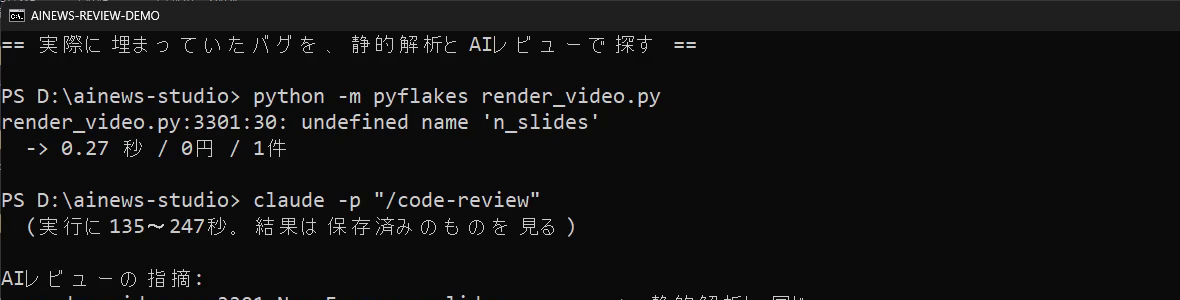
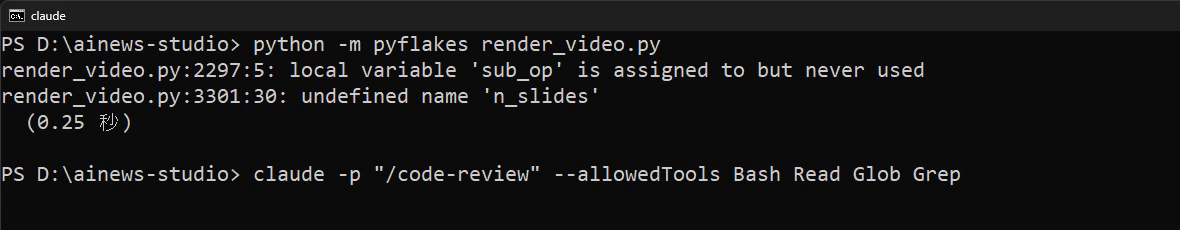
コードレビューの記事に動画CTAを追加

diff --git a/index.html b/index.html
@@ -31,6 +31,7 @@
 
   <section class="hero">
     <a class="hero-card" href="contents/2026-08-31_code-review/">
+      <img class="hero-thumb" src="contents/2026-08-31_code-review/images/thumb.png" alt="" width="1280" height="720" fetchpriority="high">
       <div class="hero-body">
         <div class="hero-meta">
           <span class="hero-badge">最新号</span>
@@ -123,8 +124,8 @@
     <div class="post-list" id="postList">
       <a class="post-card" href="contents/2026-08-31_code-review/"
          data-tags="Claude Code|実測|コードレビュー|静的解析|ハウツー" data-category="AIで作る技術"
-         data-date="2026-08-31" data-search="claude codeにコードレビューさせる — 実際に埋まっていたバグ2件で測った このリポジトリに本当に埋まっていたバグ2件を差分に戻し、pyflakes と /code-review にかけて比べました。静的解析は0.26秒・0円で1件。aiレビューは111〜247秒・$0.80〜1.70で同じ1件＋静的解析が原理的に出せない1件を、実機で再現して示しました。良性の変更に対する誤検知は0件。 aiで作る技術 claude code 実測 コードレビュー 静的解析 ハウツー claude codeにコードレビューさせる — 実際に埋まっていたバグ2件で測った aiニュース デイリーダイジェスト aiで作る技術 ｜ 2026年8月31日(日) claude codeにコードレビューさせる — 実際に埋まっていたバグ2件で測った 「aiにコードレビューさせると役に立つのか」を、 作り物のバグではなく、このリポジトリに本当に埋まっていたバグ2件 で測りました。片方は静的解析が0.27秒・0円で見つけます。 もう片方は静的解析には原理的に出せません 。そこがこの記事の主題です。ログはすべて claude code 2.1.251 での実測で、加工していません。 ⏱ 同じ計測は約10分 全部コピペok windows実測 ⭐ 3行で言うと 静的解析は0.27秒・0円で1件。 pyflakes は未定義変数（ nameerror ）を即座に指摘しました。速さと値段では勝負になりません。 aiレビューは同じ1件に加えて、静的解析が出せない1件を見つけました。 subprocess.run(..., text=true) がロケール依存で落ちる問題です。しかも 実際にこのマシンで再現して見せました — プロジェクト自身のbgmファイルに日本語のid3タグがあることまで突き止めています。 誤検知は0件でした。 良性の変更だけを見せたときは no findings. 。関数の失敗経路を3種類の入力で実行して確かめたうえで、化粧的な指摘は「findings に入れない」と自分で判断していました。かかったのは111.6秒・$0.885です。 先に4語だけ意味 静的解析 — プログラムを動かさずに、字面だけで誤りを探す道具。 pyflakes はその一つ /code-review — claude code に入っている、いまの差分をレビューさせる指示 ロケール — その機械の「既定の文字コード」。日本語windowsでは cp932 id3タグ — mp3の中に埋まっている曲名などの情報。日本語が入ることがある 目次 何を測ったか — 作り物ではなく、実際に埋まっていたバグ バグ1: 使っていない変数を参照していた バグ2: ロケール依存で落ちる（linuxでは起きない） 静的解析 — 0.27秒・0円・1件 aiレビュー — 同じ1件と、出せないはずの1件 決定的だったのは「再現までやる」こと 影響は6関数10箇所に広がっていた 誤検知は0件だった 実験設計の穴を、レビューに見抜かれた 時間と料金 — 4回の実測 使い分け — 結論 やっていないこと 参考文献 1 何を測ったか — 作り物ではなく、実際に埋まっていたバグ aiレビューの実力を測る記事はたくさんありますが、多くは そのために作ったバグ を使います。それだと「わざと分かりやすくした問題を見つけた」以上のことが分かりません。 この記事では、 このリポジトリ（動画を作る自作ツール・約3,700行）に本当に埋まっていたバグ2件 を差分に戻して測りました。どちらも2026年8月30日に実際に踏んで、直したものです。 実行環境（すべてこの機械での実測） claude 2.1.251 (claude code) python 3.10.6 git 2.52.0.windows.1 os microsoft windows 11 pro 10.0.26200 powershell 7.6.5 cpu amd ryzen 7 5800x (8コア16スレッド) locale.getpreferredencoding() = cp932 ← ここが後で効きます 測り方は単純です。 バグを戻した差分 を作り、①静的解析（ pyflakes ）②aiレビュー（ claude -p &quot;/code-review&quot; ）の両方にかけて、何を見つけるか・いくらかかるかを記録しました。 2 バグ1: 使っていない変数を参照していた 1件目は素直な nameerror です。関数の中で n_slides という変数を使っているのに、その変数を作る行が無い、という状態でした。 バグのある状態（render_video.py の render_clip） def render_clip(ctx, i, slide): ffmpeg, work, only = ctx[&quot;ffmpeg&quot;], ctx[&quot;work&quot;], ctx[&quot;only&quot;] dirname, cat, total = ctx[&quot;dirname&quot;], ctx[&quot;cat&quot;], ctx[&quot;total&quot;] # ここに n_slides = ... の行が無い cuts = slide.get(&quot;cuts&quot;) or [] ... print(f&quot; slide {i + 1}/ {n_slides} [実録] カット{n_cut}本 ...&quot;) この関数は「実録の画面録画を動画に差し込む」処理で、 実装されてから一度も呼ばれていませんでした 。だから誰も気づかないまま残っていて、初めて使おうとした日に落ちました。しかも落ちるのは 動画の書き出しが全部終わったあと です。 3 バグ2: ロケール依存で落ちる（linuxでは起きない） 2件目はもっと厄介です。pythonで外部コマンド（ここでは ffmpeg ）を呼んで出力を読む、というだけのコードです。 バグのある状態 run = subprocess.run([ffmpeg, &quot;-i&quot;, str(path)], capture_output=true, text=true ) m = re.search(r&quot;duration: (\d+):(\d+):([\d.]+)&quot;, run.stderr) text=true は「出力を文字列として受け取る」という意味ですが、 何の文字コードで読むかは指定していません 。この場合pythonは、その機械の既定（ロケール）を使います。 環境 既定の文字コード 結果 linux（開発時） utf-8 問題なし 日本語windows cp932 utf-8の出力を読むと落ちる しかも落ち方が悪質です。 例外は出力を読むスレッドの中で握り潰され 、 run.stderr は none になって返ってきます。呼び出し側は「なぜか中身が空」という状態を受け取り、その次の行の re.search(..., none) で typeerror になります。 本当の原因（文字コード）はどこにも出ません。 これは静的解析には見つけられません。 字面としては完全に正しいコードで、問題は「実行する機械のロケール」という外部条件にあるからです。 4 静的解析 — 0.27秒・0円・1件 まず pyflakes です。pythonの定番の静的解析で、 pip install pyflakes だけで入ります。 打ったコマンド python -m pyflakes render_video.py 出力（実測） render_video.py:3301:30: undefined name 'n_slides' -&gt; 0.27 秒 / 0円 / 1件 バグ1は即座に、正確な行番号つきで出ました。 0.27秒、料金は0円です。この速さと値段には、aiレビューは絶対に勝てません。 そして バグ2については何も言いません 。これは静的解析の欠陥ではなく、原理です。 subprocess.run(..., text=true) は文法的にも型的にも正しく、問題は実行環境の側にあるからです。 実際の画面。0.27秒で1件。 5 aiレビュー — 同じ1件と、出せないはずの1件 次に claude code のコードレビューです。 /code-review は「いまの差分を見てレビューする」指示で、対話画面を開かずに -p で1回実行できます。 打ったコマンド claude -p &quot;/code-review&quot; --allowedtools bash read glob grep --output-format json バグ1についての指摘は、静的解析と同じ場所を指しつつ、 影響まで書いてありました 。 render_video.py:3301 — render_clip raises nameerror: n_slides . （中略）every kind:&quot;clip&quot; slide now crashes after doing all its synthesis and encoding work. 1回目の実行より（原文ママ） 「 音声合成と書き出しを全部やったあとで落ちる 」という部分は、静的解析には書けません。この関数が何をする関数なのかを読んで初めて言えることです。 6 決定的だったのは「再現までやる」こと この記事で一番驚いたのはここです。バグ2について、aiレビューは 指摘しただけでなく、この機械で実際に再現しました 。 locale.getpreferredencoding(false) is cp932 on this machine, so text=true alone decodes ffmpeg stderr as cp932 with errors='strict' . i reproduced it : an mp3 at a path with japanese characters makes subprocess's reader thread die with unicodede">
-        <div class="post-thumb-ph">📰</div>
+         data-date="2026-08-31" data-search="claude codeにコードレビューさせる — 実際に埋まっていたバグ2件で測った このリポジトリに本当に埋まっていたバグ2件を差分に戻し、pyflakes と /code-review にかけて比べました。静的解析は0.26秒・0円で1件。aiレビューは111〜247秒・$0.80〜1.70で同じ1件＋静的解析が原理的に出せない1件を、実機で再現して示しました。良性の変更に対する誤検知は0件。 aiで作る技術 claude code 実測 コードレビュー 静的解析 ハウツー claude codeにコードレビューさせる — 実際に埋まっていたバグ2件で測った aiニュース デイリーダイジェスト aiで作る技術 ｜ 2026年8月31日(日) claude codeにコードレビューさせる — 実際に埋まっていたバグ2件で測った 「aiにコードレビューさせると役に立つのか」を、 作り物のバグではなく、このリポジトリに本当に埋まっていたバグ2件 で測りました。片方は静的解析が0.27秒・0円で見つけます。 もう片方は、今回使った pyflakes には出せません 。そこがこの記事の主題です。ログはすべて claude code 2.1.251 での実測で、加工していません。 ▶ この記事を動画で見る（15分） ずんだもん×四国めたんの掛け合い・実際に走らせた画面つき ⏱ 同じ計測は約10分 全部コピペok windows実測 ⭐ 3行で言うと 静的解析は0.27秒・0円で1件。 pyflakes は未定義変数（ nameerror ）を即座に指摘しました。速さと値段では勝負になりません。 aiレビューは同じ1件に加えて、静的解析が出せない1件を見つけました。 subprocess.run(..., text=true) がロケール依存で落ちる問題です。しかも 実際にこのマシンで再現して見せました — プロジェクト自身のbgmファイルに日本語のid3タグがあることまで突き止めています。 誤検知は0件でした。 良性の変更だけを見せたときは no findings. 。関数の失敗経路を3種類の入力で実行して確かめたうえで、化粧的な指摘は「findings に入れない」と自分で判断していました。かかったのは111.6秒・$0.885です。 先に4語だけ意味 静的解析 — プログラムを動かさずに、字面だけで誤りを探す道具。 pyflakes はその一つ /code-review — claude code に入っている、いまの差分をレビューさせる指示 ロケール — その機械の「既定の文字コード」。日本語windowsでは cp932 id3タグ — mp3の中に埋まっている曲名などの情報。日本語が入ることがある 目次 何を測ったか — 作り物ではなく、実際に埋まっていたバグ バグ1: 使っていない変数を参照していた バグ2: ロケール依存で落ちる（linuxでは起きない） 静的解析 — 0.27秒・0円・1件 aiレビュー — 同じ1件と、出せないはずの1件 決定的だったのは「再現までやる」こと 影響は6関数10箇所に広がっていた 誤検知は0件だった 実験設計の穴を、レビューに見抜かれた 時間と料金 — 4回の実測 使い分け — 結論 やっていないこと 参考文献 1 何を測ったか — 作り物ではなく、実際に埋まっていたバグ aiレビューの実力を測る記事はたくさんありますが、多くは そのために作ったバグ を使います。それだと「わざと分かりやすくした問題を見つけた」以上のことが分かりません。 この記事では、 このリポジトリ（動画を作る自作ツール・約3,700行）に本当に埋まっていたバグ2件 を差分に戻して測りました。どちらも2026年8月30日に実際に踏んで、直したものです。 実行環境（すべてこの機械での実測） claude 2.1.251 (claude code) python 3.10.6 git 2.52.0.windows.1 os microsoft windows 11 pro 10.0.26200 powershell 7.6.5 cpu amd ryzen 7 5800x (8コア16スレッド) locale.getpreferredencoding() = cp932 ← ここが後で効きます 測り方は単純です。 バグを戻した差分 を作り、①静的解析（ pyflakes ）②aiレビュー（ claude -p &quot;/code-review&quot; ）の両方にかけて、何を見つけるか・いくらかかるかを記録しました。 2 バグ1: 使っていない変数を参照していた 1件目は素直な nameerror です。関数の中で n_slides という変数を使っているのに、その変数を作る行が無い、という状態でした。 バグのある状態（render_video.py の render_clip） def render_clip(ctx, i, slide): ffmpeg, work, only = ctx[&quot;ffmpeg&quot;], ctx[&quot;work&quot;], ctx[&quot;only&quot;] dirname, cat, total = ctx[&quot;dirname&quot;], ctx[&quot;cat&quot;], ctx[&quot;total&quot;] # ここに n_slides = ... の行が無い cuts = slide.get(&quot;cuts&quot;) or [] ... print(f&quot; slide {i + 1}/ {n_slides} [実録] カット{n_cut}本 ...&quot;) この関数は「実録の画面録画を動画に差し込む」処理で、 実装されてから一度も呼ばれていませんでした 。だから誰も気づかないまま残っていて、初めて使おうとした日に落ちました。しかも落ちるのは 動画の書き出しが全部終わったあと です。 3 バグ2: ロケール依存で落ちる（linuxでは起きない） 2件目はもっと厄介です。pythonで外部コマンド（ここでは ffmpeg ）を呼んで出力を読む、というだけのコードです。 バグのある状態 run = subprocess.run([ffmpeg, &quot;-i&quot;, str(path)], capture_output=true, text=true ) m = re.search(r&quot;duration: (\d+):(\d+):([\d.]+)&quot;, run.stderr) text=true は「出力を文字列として受け取る」という意味ですが、 何の文字コードで読むかは指定していません 。この場合pythonは、その機械の既定（ロケール）を使います。 環境 既定の文字コード 結果 linux（開発時） utf-8 問題なし 日本語windows cp932 utf-8の出力を読むと落ちる しかも落ち方が悪質です。 例外は出力を読むスレッドの中で握り潰され 、 run.stderr は none になって返ってきます。呼び出し側は「なぜか中身が空」という状態を受け取り、その次の行の re.search(..., none) で typeerror になります。 本当の原因（文字コード）はどこにも出ません。 これは pyflakes のような「名前の辻褄を見る道具」には見つけられません。 字面としては完全に正しいコードで、問題は「実行する機械のロケール」という外部条件にあるからです（型を見る道具なら、空が返ったあとの扱いを捕まえられた可能性はあります。測っていないので断言はしません）。 4 静的解析 — 0.27秒・0円・1件 まず pyflakes です。pythonの定番の静的解析で、 pip install pyflakes だけで入ります。 打ったコマンド python -m pyflakes render_video.py 出力（実測） render_video.py:3301:30: undefined name 'n_slides' -&gt; 0.27 秒 / 0円 / 1件 バグ1は即座に、正確な行番号つきで出ました。 0.27秒、料金は0円です。この速さと値段には、aiレビューは絶対に勝てません。 そして バグ2については何も言いません 。これは pyflakes の欠陥ではなく、この道具が見ているものの範囲です。 subprocess.run(..., text=true) は文法的にも型的にも正しく、問題は実行環境の側にあるからです。 実際の画面。動画用に撮り直した回では 0.25秒で2件 （未定義変数に加えて、未使用変数も1件）でした。どちらも同じコマンドの実測です。 5 aiレビュー — 同じ1件と、出せないはずの1件 次に claude code のコードレビューです。 /code-review は「いまの差分を見てレビューする」指示で、対話画面を開かずに -p で1回実行できます。 打ったコマンド claude -p &quot;/code-review&quot; --allowedtools bash read glob grep --output-format json バグ1についての指摘は、静的解析と同じ場所を指しつつ、 影響まで書いてありました 。 render_video.py:3301 — render_clip raises nameerror: n_slides . （中略）every kind:&quot;clip&quot; slide now crashes after doing all its synthesis and encoding work. 1回目の実行より（原文ママ） 「 音声合成と書き出しを全部やったあとで落ちる 」という部分は、静的解析には書けません。この関数が何をする関数なのかを読んで初めて言えることです。 6 決定的だったのは「再現までやる」こと この記事で一番驚いたのはここです。バグ2について、aiレビューは 指摘しただけでなく、この機械で実際に再現しました 。 locale.getpreferredencoding(false) is cp932 o">
+        <img class="post-thumb" src="contents/2026-08-31_code-review/images/thumb.png" alt="" loading="lazy" onerror="this.outerHTML='<div class=&quot;post-thumb-ph&quot;>📰</div>'">
         <div class="post-body">
           <div class="post-date"><span class="post-cat">AIで作る技術</span>2026年8月31日(月)</div>
           <h3 class="post-title">Claude Codeにコードレビューさせる — 実際に埋まっていたバグ2件で測った</h3>

diff --git a/contents/2026-08-31_code-review/index.html b/contents/2026-08-31_code-review/index.html
@@ -27,7 +27,11 @@
   <div class="masthead">
     <div class="eyebrow">AIで作る技術 ｜ 2026年8月31日(日)</div>
     <h1>Claude Codeにコードレビューさせる — 実際に埋まっていたバグ2件で測った</h1>
-    <div class="range">「AIにコードレビューさせると役に立つのか」を、<b>作り物のバグではなく、このリポジトリに本当に埋まっていたバグ2件</b>で測りました。片方は静的解析が0.27秒・0円で見つけます。<mark>もう片方は静的解析には原理的に出せません</mark>。そこがこの記事の主題です。ログはすべて Claude Code 2.1.251 での実測で、加工していません。</div>
+    <div class="range">「AIにコードレビューさせると役に立つのか」を、<b>作り物のバグではなく、このリポジトリに本当に埋まっていたバグ2件</b>で測りました。片方は静的解析が0.27秒・0円で見つけます。<mark>もう片方は、今回使った pyflakes には出せません</mark>。そこがこの記事の主題です。ログはすべて Claude Code 2.1.251 での実測で、加工していません。</div>
+  <a class="video-cta" href="https://youtu.be/UaE-fyQopIg" target="_blank" rel="noopener">
+    <span class="vc-play">▶</span>
+    <span class="vc-text"><b>この記事を動画で見る（15分）</b><span>ずんだもん×四国めたんの掛け合い・実際に走らせた画面つき</span></span>
+  </a>
     <div class="meta-row">
       <span class="time-chip">⏱ 同じ計測は約10分</span>
       <span class="tag">全部コピペOK</span>
@@ -122,7 +126,7 @@ m = re.search(r"Duration: (\d+):(\d+):([\d.]+)", run.stderr)</pre></div>
         </table>
       </div>
       <p class="lead">しかも落ち方が悪質です。<b>例外は出力を読むスレッドの中で握り潰され</b>、<code>run.stderr</code> は <code>None</code> になって返ってきます。呼び出し側は「なぜか中身が空」という状態を受け取り、その次の行の <code>re.search(..., None)</code> で <code>TypeError</code> になります。<mark>本当の原因（文字コード）はどこにも出ません。</mark></p>
-      <p class="lead"><b>これは静的解析には見つけられません。</b>字面としては完全に正しいコードで、問題は「実行する機械のロケール」という外部条件にあるからです。</p>
+      <p class="lead"><b>これは pyflakes のような「名前の辻褄を見る道具」には見つけられません。</b>字面としては完全に正しいコードで、問題は「実行する機械のロケール」という外部条件にあるからです（型を見る道具なら、空が返ったあとの扱いを捕まえられた可能性はあります。測っていないので断言はしません）。</p>
     </article>
   </section>
 
@@ -134,10 +138,10 @@ m = re.search(r"Duration: (\d+):(\d+):([\d.]+)", run.stderr)</pre></div>
       <div class="code term"><div class="code-head">出力（実測）</div><pre><span class="ok-line">render_video.py:3301:30: undefined name 'n_slides'</span>
   -&gt; 0.27 秒 / 0円 / 1件</pre></div>
       <p class="lead"><b>バグ1は即座に、正確な行番号つきで出ました。</b>0.27秒、料金は0円です。この速さと値段には、AIレビューは絶対に勝てません。</p>
-      <p class="lead">そして<b>バグ2については何も言いません</b>。これは静的解析の欠陥ではなく、原理です。<code>subprocess.run(..., text=True)</code> は文法的にも型的にも正しく、問題は実行環境の側にあるからです。</p>
+      <p class="lead">そして<b>バグ2については何も言いません</b>。これは pyflakes の欠陥ではなく、この道具が見ているものの範囲です。<code>subprocess.run(..., text=True)</code> は文法的にも型的にも正しく、問題は実行環境の側にあるからです。</p>
       <figure>
         <img src="images/shot-pyflakes.png" alt="pyflakes が render_video.py:3301 の未定義変数 n_slides を0.27秒で指摘している実際の画面" loading="lazy">
-        <figcaption>実際の画面。0.27秒で1件。</figcaption>
+        <figcaption>実際の画面。動画用に撮り直した回では <b>0.25秒で2件</b>（未定義変数に加えて、未使用変数も1件）でした。どちらも同じコマンドの実測です。</figcaption>
       </figure>
     </article>
   </section>
